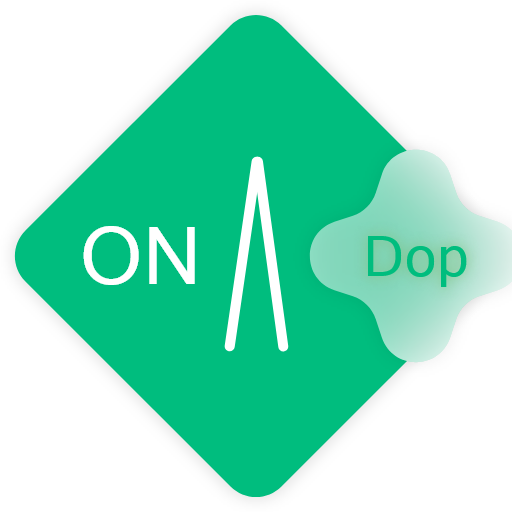
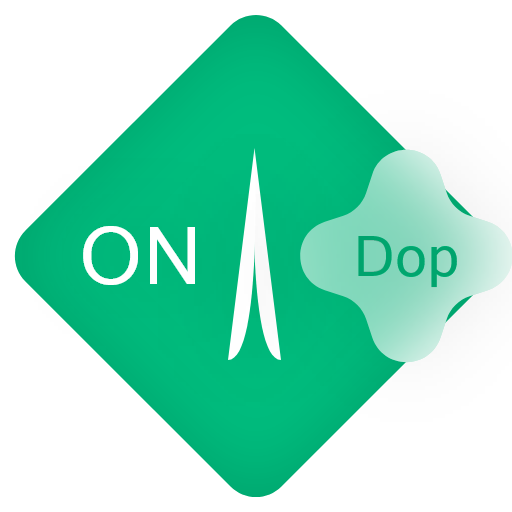
1.0.7 更新

diff --git a/vite.config.ts b/vite.config.ts
@@ -12,8 +12,8 @@ export default defineConfig({
     VitePWA({
       registerType: 'autoUpdate',
       manifest: {
-        name: 'Ona-Dop',
-        short_name: 'Ona-Dop',
+        name: 'Ona Dop',
+        short_name: 'Ona Dop',
         description: 'Yet Another DNS Resolver',
         theme_color: '#00bd7e',
         icons: [

diff --git a/src/pages/AboutPage.vue b/src/pages/AboutPage.vue
@@ -52,7 +52,7 @@ const ABOUT_ITEMS: AboutItem[] = [
   },
   {
     label: 'Version',
-    value: '1.0.6',
+    value: '1.0.7',
     disabled: true
   }
 ]

diff --git a/index.html b/index.html
@@ -6,6 +6,7 @@
     <base target="_blank" />
     <link rel="icon" sizes="64x64" href="/favicon-64x64.png" />
     <link rel="icon" sizes="128x128" href="/favicon-128x128.png" />
+    <link rel="icon" sizes="192x192" href="/favicon-192x192.png" />
     <title>Ona Dop</title>
   </head>
 